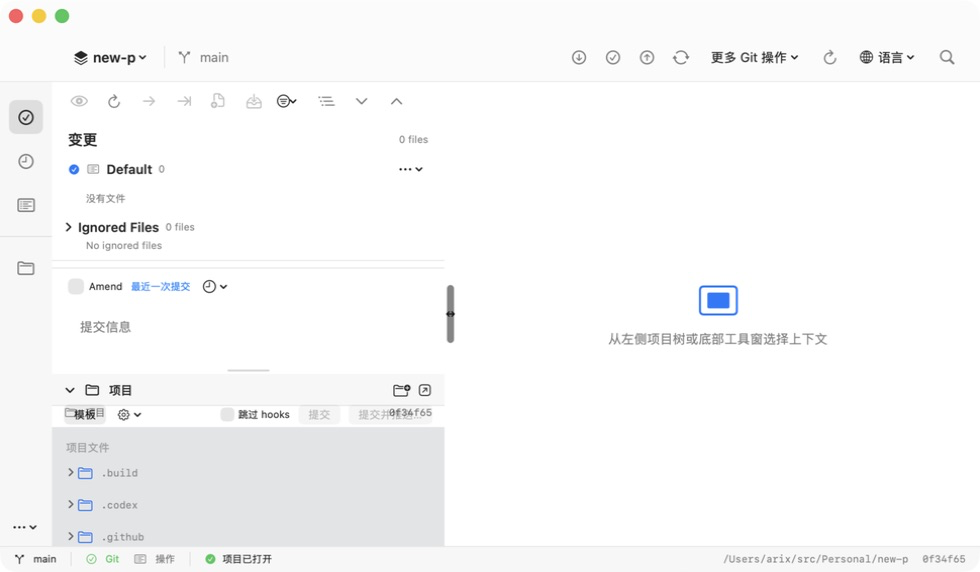
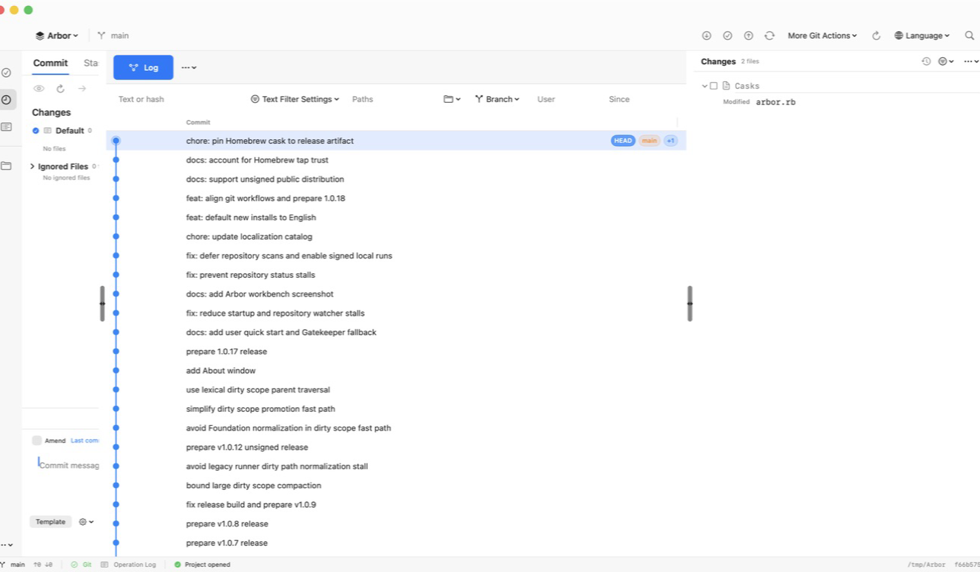
docs: refresh README screenshot in English

diff --git a/Arbor/RebasedWorkspaceViews.swift b/Arbor/RebasedWorkspaceViews.swift
@@ -2319,7 +2319,7 @@ struct RebasedCommitWorkspace: View {
             .padding(.vertical, 10)
 
             HStack {
-                Text("变更")
+                Text("Changes")
                     .font(.system(size: 15, weight: .semibold))
                 Spacer()
                 Text("\(visibleChangedCount) files")
@@ -2349,7 +2349,7 @@ struct RebasedCommitWorkspace: View {
                             entries: standaloneUnversionedEntries,
                             changeListName: visibleChangeLists.first(where: { $0.isDefault })?.name ?? "Default",
                             changeLists: visibleChangeLists,
-                            emptyLabel: "没有文件",
+                            emptyLabel: "No files",
                             statusKind: { $0.unstaged },
                             isChecked: { _ in false },
                             onToggle: { entry, checked in
@@ -2412,7 +2412,7 @@ struct RebasedCommitWorkspace: View {
                     .toggleStyle(.checkbox)
                     .font(.caption)
                     .disabled(operationState != nil && !canAmendPausedRebase)
-                Text("最近一次提交")
+                Text("Last commit")
                     .font(.caption)
                     .foregroundStyle(.blue)
                 if canAmendPausedRebase {
@@ -2423,7 +2423,7 @@ struct RebasedCommitWorkspace: View {
                 }
                 Menu {
                     if recentMessages.isEmpty {
-                        Text("暂无最近提交信息")
+                        Text("No recent commit messages")
                     } else {
                         ForEach(recentMessages, id: \.self) { message in
                             Button(message) { commitMessage = message }
@@ -2447,7 +2447,7 @@ struct RebasedCommitWorkspace: View {
                 .background(Design.Colors.chromeInset, in: RoundedRectangle(cornerRadius: 6))
                 .overlay(alignment: .topLeading) {
                     if commitMessage.isEmpty {
-                        Text("提交信息")
+                        Text("Commit message")
                             .foregroundStyle(.secondary)
                             .padding(.leading, 16)
                             .padding(.top, 16)
@@ -2458,17 +2458,17 @@ struct RebasedCommitWorkspace: View {
                 .padding(.top, 8)
 
             HStack(spacing: 8) {
-                Button("模板", action: onTemplate)
+                Button("Template", action: onTemplate)
                 Menu {
-                    Button("模板") { onTemplate() }
-                    Button("提交前检查") { onBeforeCommitSettings() }
+                    Button("Template") { onTemplate() }
+                    Button("Before Commit Checks") { onBeforeCommitSettings() }
                 } label: {
                     Image(systemName: "gearshape")
                 }
                 .menuStyle(.borderlessButton)
                 Spacer()
                 Toggle(
-                    "跳过 hooks",
+                    "Skip hooks",
                     isOn: Binding(
                         get: { skipHooks || alwaysSkipCommitHooks },
                         set: { skipHooks = $0 }
@@ -2477,7 +2477,7 @@ struct RebasedCommitWorkspace: View {
                     .toggleStyle(.checkbox)
                     .font(.caption)
                     .disabled(alwaysSkipCommitHooks)
-                Button(amendMode ? "Amend" : "提交", action: onCommit)
+                Button(amendMode ? "Amend" : "Commit", action: onCommit)
                     .buttonStyle(.bordered)
                     .disabled(
                         repo == nil
@@ -2497,7 +2497,7 @@ struct RebasedCommitWorkspace: View {
                         .buttonStyle(.borderedProminent)
                         .disabled(operationState != nil || repo == nil || amendMode || !hasStaged || commitMessage.trimmingCharacters(in: .whitespacesAndNewlines).isEmpty)
                 }
-                Button("提交并推送…", action: onCommitAndPush)
+                Button("Commit and Push…", action: onCommitAndPush)
                     .buttonStyle(.bordered)
                     .disabled(operationState != nil || repo == nil || amendMode || !hasStaged || commitMessage.trimmingCharacters(in: .whitespacesAndNewlines).isEmpty)
             }
@@ -2538,7 +2538,7 @@ struct RebasedCommitWorkspace: View {
                 stagedChangeGroup(for: list, entries: listStaged)
             }
             if listUnstaged.isEmpty && listStaged.isEmpty {
-                Text("没有文件")
+                Text("No files")
                     .font(.caption)
                     .foregroundStyle(.secondary)
                     .padding(.leading, 22)
@@ -2552,7 +2552,7 @@ struct RebasedCommitWorkspace: View {
             entries: entries,
             changeListName: list.name,
             changeLists: visibleChangeLists,
-            emptyLabel: "没有文件",
+            emptyLabel: "No files",
             statusKind: { $0.unstaged },
             // This checkbox stages the currently unstaged side of the file.
             // A partially staged file can appear in both groups, so this must
@@ -2600,7 +2600,7 @@ struct RebasedCommitWorkspace: View {
             entries: entries,
             changeListName: list.name,
             changeLists: visibleChangeLists,
-            emptyLabel: "没有文件",
+            emptyLabel: "No files",
             statusKind: { $0.staged },
             isChecked: { _ in true },
             onToggle: { entry, checked in
@@ -4186,7 +4186,7 @@ private struct RebasedConflictGroup: View {
             .foregroundStyle(.primary)
 
             if entries.isEmpty {
-                Text("没有文件")
+                Text("No files")
                     .font(.caption)
                     .foregroundStyle(.secondary)
                     .padding(.leading, 22)
@@ -4411,7 +4411,7 @@ private struct RebasedChangeGroup: View {
     let entries: [FileEntry]
     let changeListName: String
     let changeLists: [ChangeListInfo]
-    var emptyLabel: String = "没有文件"
+    var emptyLabel: LocalizedStringKey = "No files"
     let statusKind: (FileEntry) -> ChangeKind
     let isChecked: (FileEntry) -> Bool
     let onToggle: (FileEntry, Bool) -> Void
@@ -4938,7 +4938,7 @@ private struct StagingDiffPreviewView: View {
                 HStack(spacing: 8) {
                     Image(systemName: "checkmark.circle")
                         .foregroundStyle(.secondary)
-                    Text("逐行暂存 · \(path)")
+                    Text("Stage line by line · \(path)")
                         .font(.caption.weight(.semibold))
                         .lineLimit(1)
                         .truncationMode(.middle)
@@ -5346,7 +5346,7 @@ struct RebasedStatusBar: View {
                 .font(.caption)
                 .foregroundStyle(.green)
             Button(action: onOperationLog) {
-                Label("操作", systemImage: "list.bullet.rectangle")
+                Label("Operation Log", systemImage: "list.bullet.rectangle")
                     .font(.caption)
             }
             .buttonStyle(.plain)

diff --git a/Arbor/LogSidebar.swift b/Arbor/LogSidebar.swift
@@ -2483,12 +2483,12 @@ private struct LogChangesBrowserView: View {
         standaloneDiffRecord = record
     }
 
-    private func changeKindText(_ kind: TreeChangeKind) -> String {
+    private func changeKindText(_ kind: TreeChangeKind) -> LocalizedStringKey {
         switch kind {
-        case .added: return "新增"
-        case .modified: return "修改"
-        case .deleted: return "删除"
-        case .renamed: return "重命名"
+        case .added: return "Added"
+        case .modified: return "Modified"
+        case .deleted: return "Deleted"
+        case .renamed: return "Renamed"
         }
     }
 

diff --git a/Arbor/ContentView.swift b/Arbor/ContentView.swift
@@ -24,9 +24,9 @@ enum ToolWindowMode: String, CaseIterable, Identifiable {
     var id: String { rawValue }
     var title: String {
         switch self {
-        case .commit: "提交"
-        case .log: "日志"
-        case .operations: "操作"
+        case .commit: "Commit"
+        case .log: "Log"
+        case .operations: "Operation Log"
         }
     }
     var systemImage: String {
